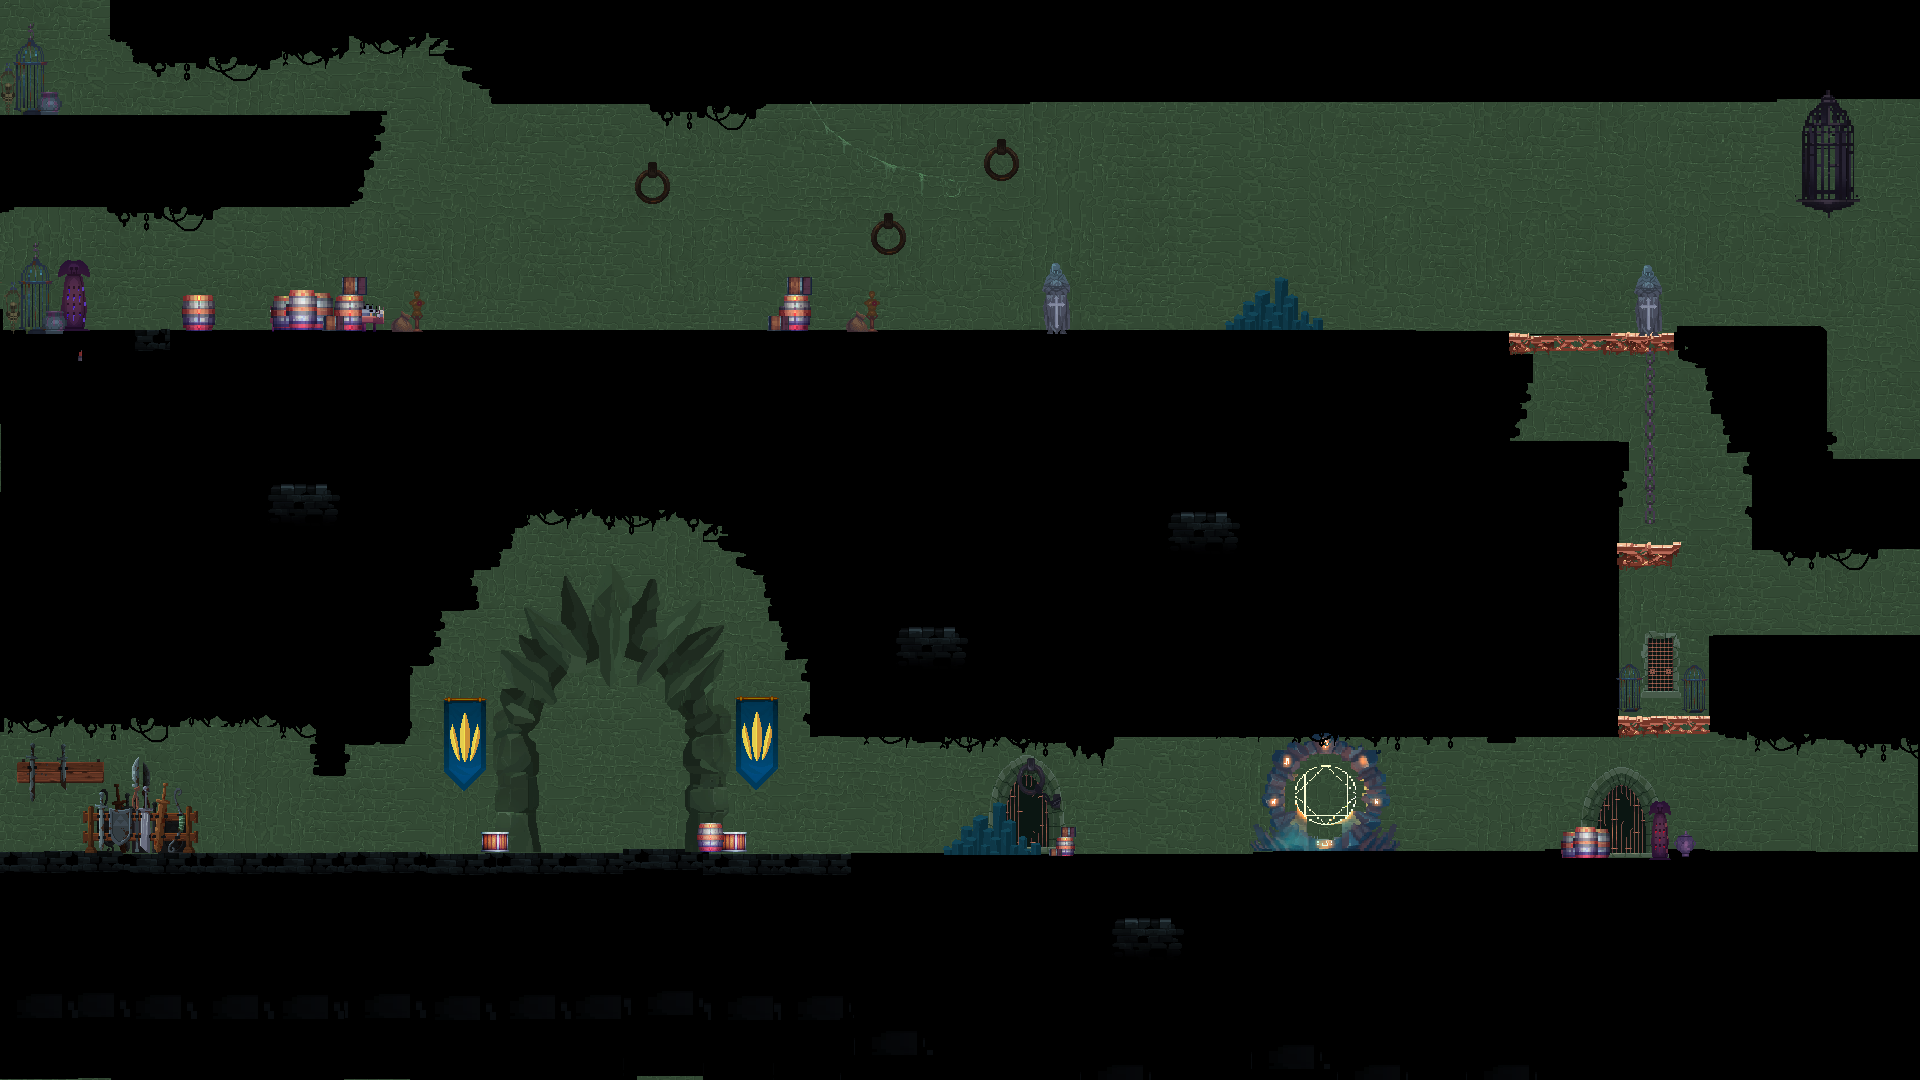
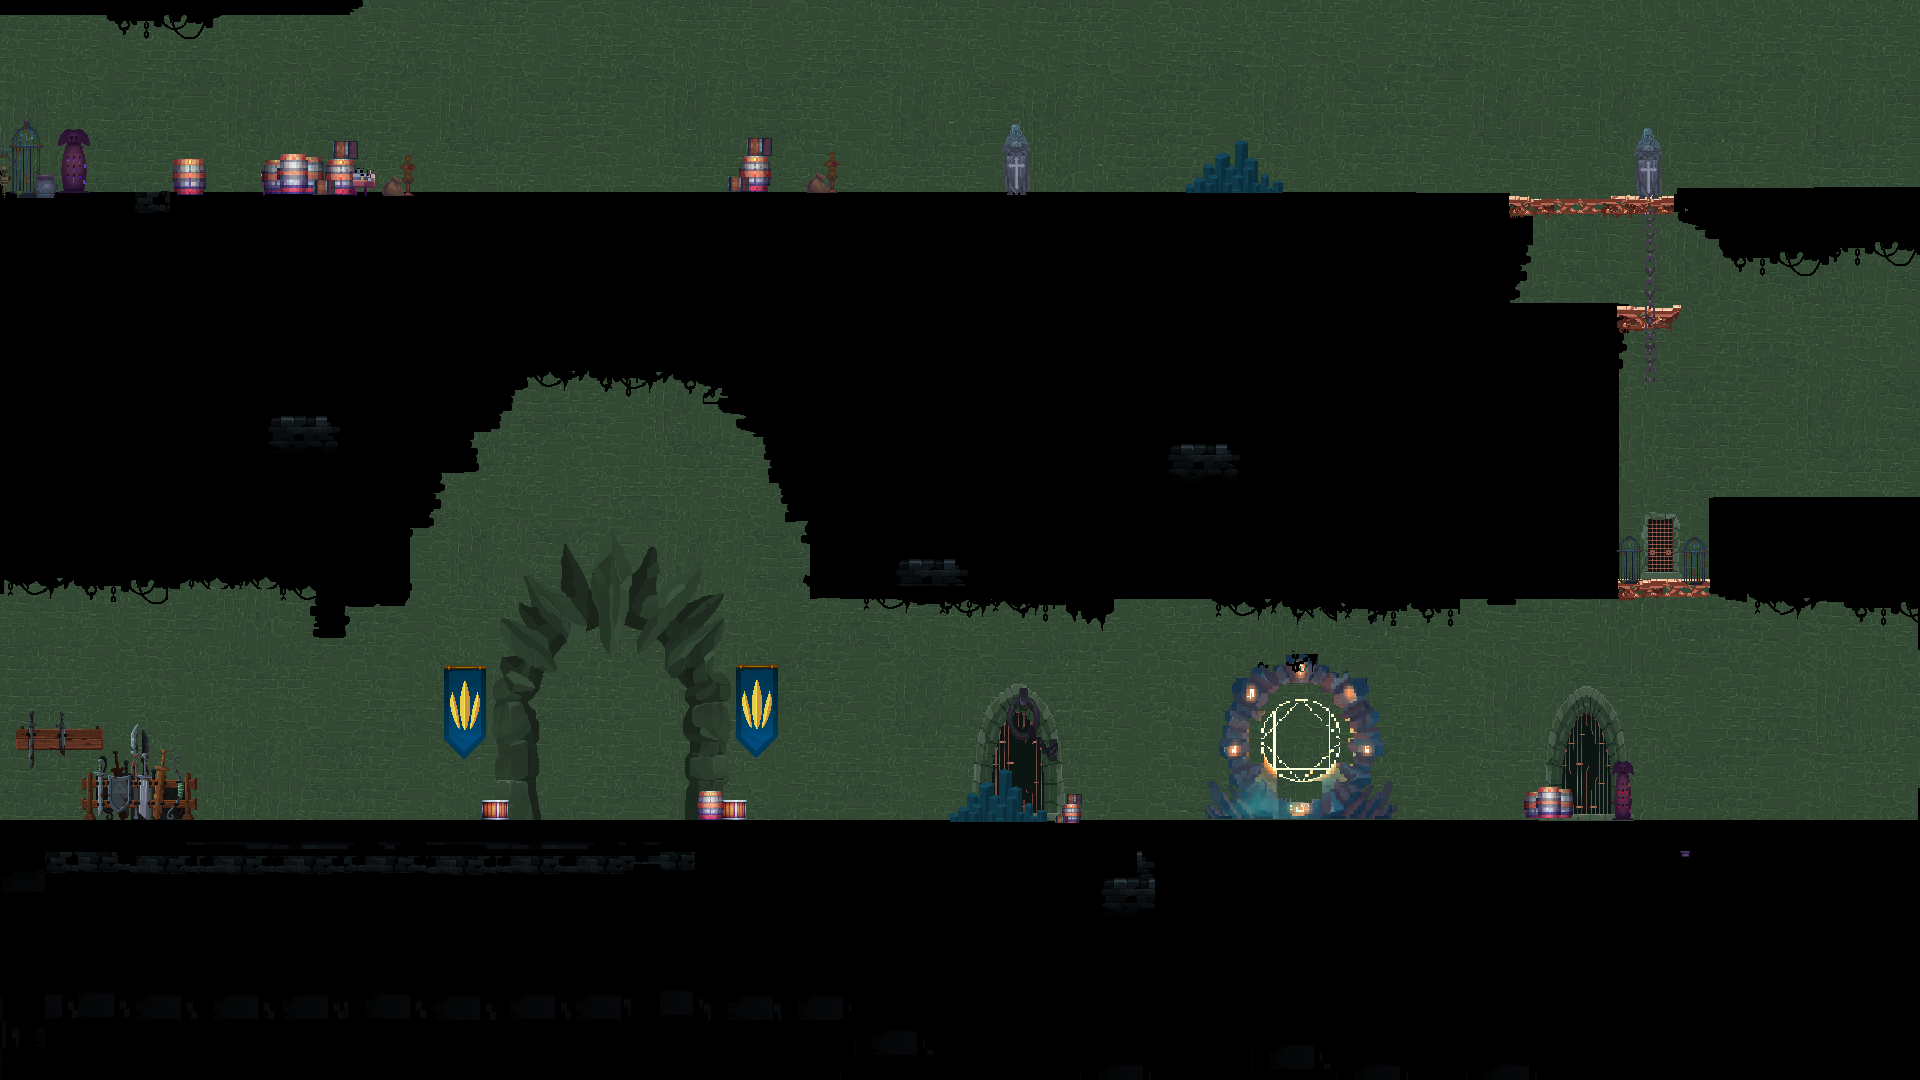
加入bg3

diff --git a/src/App/AppInGameInit.cpp b/src/App/AppInGameInit.cpp
@@ -33,10 +33,10 @@ void App::InGameInit() {
 
     //bg
     glm::vec2 temp_pos(1, 1);
-    BGs.resize(2);
+    BGs.resize(3);
     BGs[0] = std::make_shared<BG>(RESOURCE_DIR"/bg/bg1.png", temp_pos, glm::vec2{0.8f, 0.8f});
     BGs[1] = std::make_shared<BG>(RESOURCE_DIR"/bg/bg2.png", glm::vec2{1616.0f, 174.0f}, glm::vec2{0.9f, 0.9f});
-    // BGs[2] = std::make_shared<BG>(RESOURCE_DIR"/bg/back3.png", glm::vec2{3717.0f, 391.5f}, glm::vec2{1.5f, 1.5f});
+    BGs[2] = std::make_shared<BG>(RESOURCE_DIR"/bg/bg3.png", glm::vec2{3817.0f, 318.5f}, glm::vec2{1.4f, 1.4f});
 
     for (auto& temp : BGs){
         MapObjs.push_back(temp);
